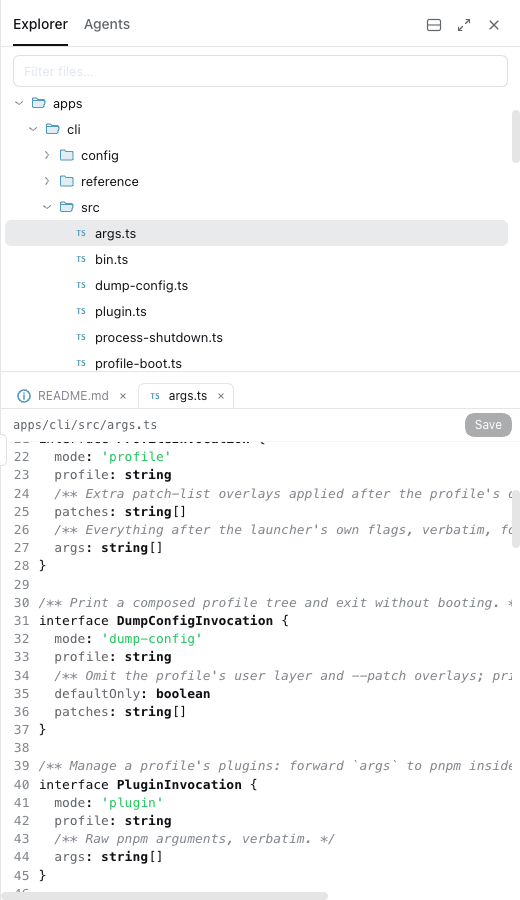
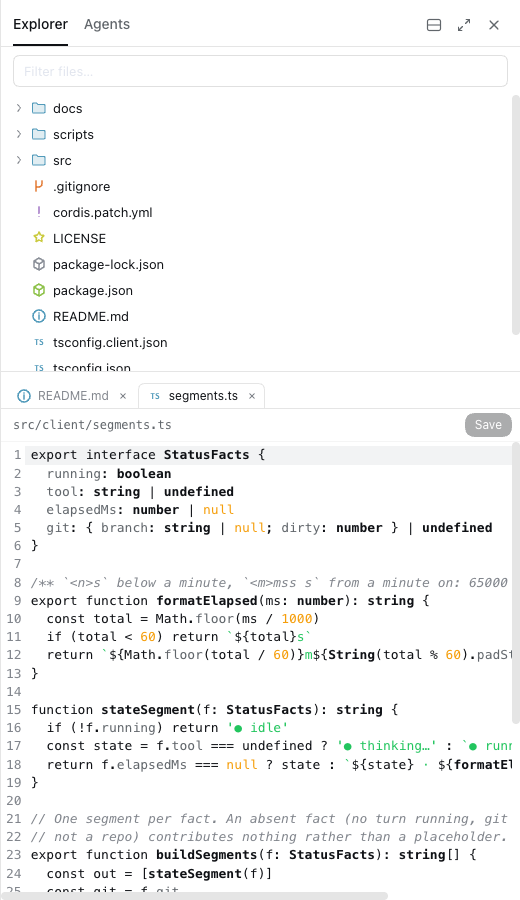
docs: re-shoot the screenshots on a real session
Hero, Explorer, split and Agents were taken during the tools smoke test and
showed FLYKIT_TOOLS_OK / PONG. All five now come from a real question about
the plugin, with the sidebar collapsed so no workspace names leak. The model
picker shot also picks up the new two-line rows.

diff --git a/README.md b/README.md
@@ -6,7 +6,7 @@ A plugin for [DeepSeek Harness](https://github.com/deepseek-ai/deepseek-harness)
 `dsh web` GUI into an agent cockpit: a file explorer with an editor, real coding-agent terminals,
 a searchable model picker, and a status line under the composer.
 
-![The dsh web window with the flykit panel open: file tree above, Markdown preview below, status line under the composer](https://raw.githubusercontent.com/flykit-cc/dsh-flykit/main/docs/screenshots/hero.png)
+![The dsh web window with the flykit panel open: file tree above, an open TypeScript file below, status line under the composer](https://raw.githubusercontent.com/flykit-cc/dsh-flykit/main/docs/screenshots/hero.png)
 
 ## What you get
 
@@ -30,13 +30,13 @@ of output; per-terminal mute. Claude subscription usage bars appear above a Clau
 **Split mode** — Agents stacked above Explorer, so a running terminal and an open file are visible
 at once. The panel also maximises to the full window.
 
-![Split mode: Agents above, Explorer below](https://raw.githubusercontent.com/flykit-cc/dsh-flykit/main/docs/screenshots/split.png)
+![Split mode: a live shell above, the Explorer and an open file below](https://raw.githubusercontent.com/flykit-cc/dsh-flykit/main/docs/screenshots/split.png)
 
 **Model picker** — replaces the shell's model seat with a search box over the same directory
 `/model` uses, so both stay one state. Provider pills, favourites, recents, reasoning badges, an
 effort row for reasoning models, and a button that refreshes the OpenRouter catalog live.
 
-![Model picker filtered to "qwen", with provider pills and grouped results](https://raw.githubusercontent.com/flykit-cc/dsh-flykit/main/docs/screenshots/model-picker.png)
+![Model picker over every configured provider, grouped, with provider pills and reasoning badges](https://raw.githubusercontent.com/flykit-cc/dsh-flykit/main/docs/screenshots/model-picker.png)
 
 **Status line** — idle / thinking / running *tool*, a turn timer, the session's git branch and
 dirty count. It also recolours the shell's context ring as the window fills.
